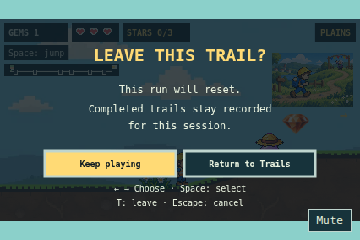
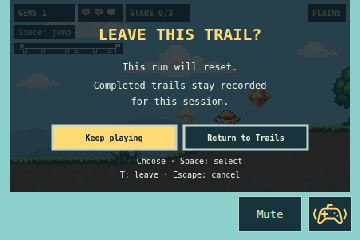
docs: refresh pause evidence with current controls

diff --git a/docs/evidence/issue-162/README.md b/docs/evidence/issue-162/README.md
@@ -21,26 +21,30 @@ not add completion results, and the map does not show a completion banner.
 
 Captured from the production build in Chromium by the focused browser tests:
 
-- [Keyboard pause at 426 × 240](keyboard-pause.png)
+- [Keyboard pause in a 426 × 240 window](keyboard-pause.png)
 - [Confirmation at 360 × 240](confirmation-small.png)
 - [Controller selection at 1366 × 768](controller-pause.png)
 
 ## Validation
 
 - `npm run typecheck` and `npm run build` passed.
-- `npm test -- --maxWorkers=2 --testTimeout=15000` passed: 654 tests in 36 files.
+- `npm test -- --maxWorkers=2 --testTimeout=15000` passed: 671 tests in 37 files after integrating controller rumble from main.
   The longer timeout accommodates the existing exhaustive finish-layout test on
   this host. The sprite-processing tests required subprocess access outside the
   filesystem sandbox.
 - `npm run test:ci` passed.
 - The independent subagent review found no remaining blockers after the held
-  Enter and direction guards were fixed. Its focused unit run passed 43 tests.
+  Enter and direction guards were fixed. Its final integration unit run passed 62 tests.
 - Browser coverage exercises keyboard T confirmation/cancellation and repeats,
   pointer/Tab/Enter/Space actions, focus-loss cancellation, controller selection,
   held-action release on the map, fresh run state and trail-audio shutdown/restart.
-- The final focused Playwright run passed all 18 checks across Chromium, Firefox
-  and WebKit with `--workers=1`. Controller presses await animation frames so
-  every edge is sampled reliably on a busy host.
+- Focused Playwright runs passed across Chromium, Firefox and WebKit with
+  `--workers=1`: 18 pause/audio and frost/cove completion checks after correcting
+  a resume-input race, then 12 pause/audio and 6 rumble checks against current main. The
+  regression batches Escape and a fresh movement press in one browser task.
+  Returning filters held controls while accepting a fresh map action immediately.
+  Controller presses await animation frames so every edge is sampled reliably
+  on a busy host. The screenshots show the integrated rumble footer.
 - The full local browser run was interrupted after this host exhausted memory
   during concurrent runs (`ERR_INSUFFICIENT_RESOURCES` and asset-load failures).
   The final focused run uses one browser worker; the complete suite also runs in
